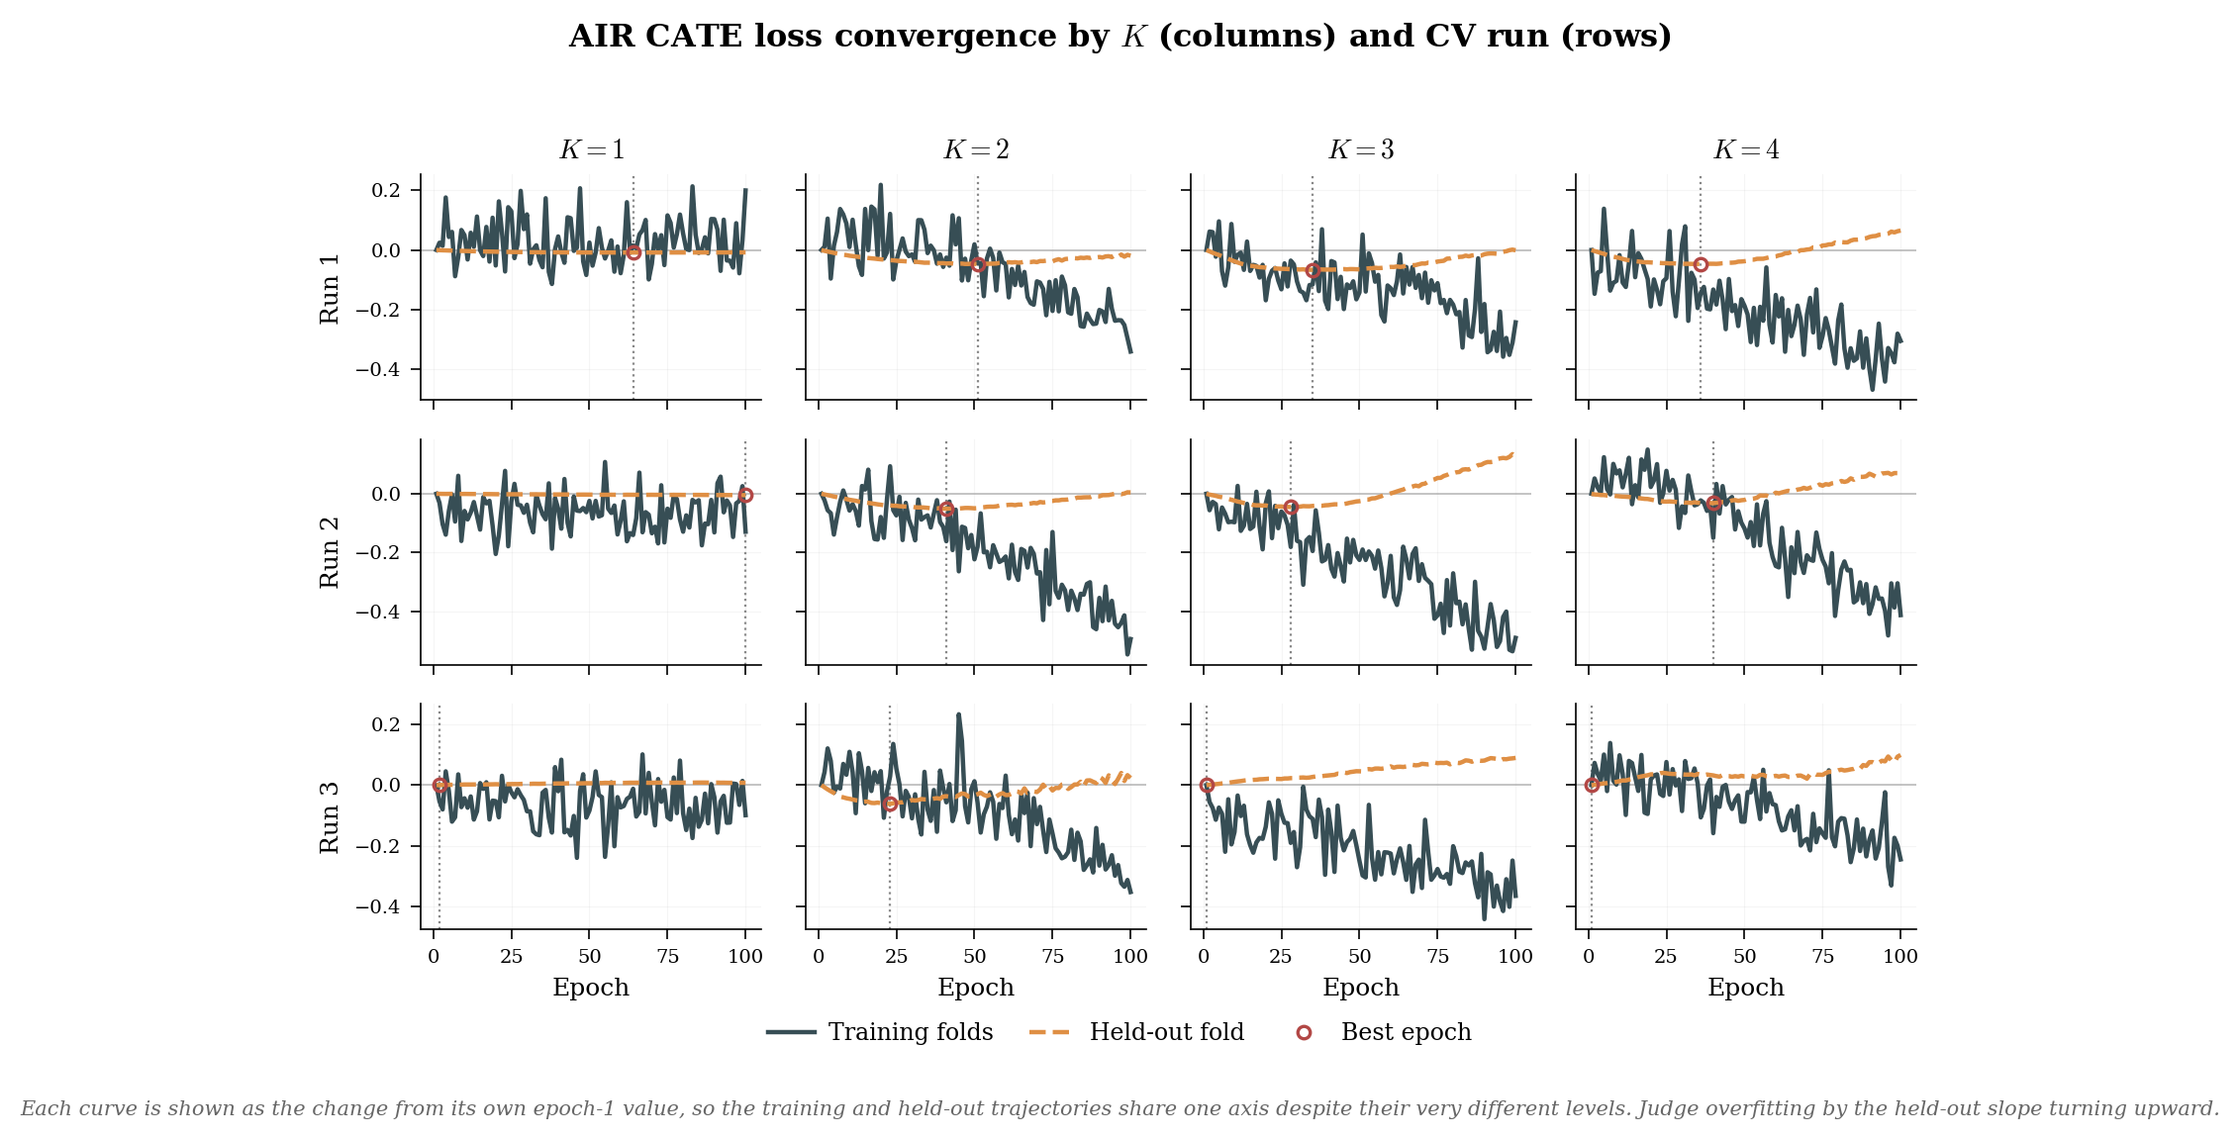
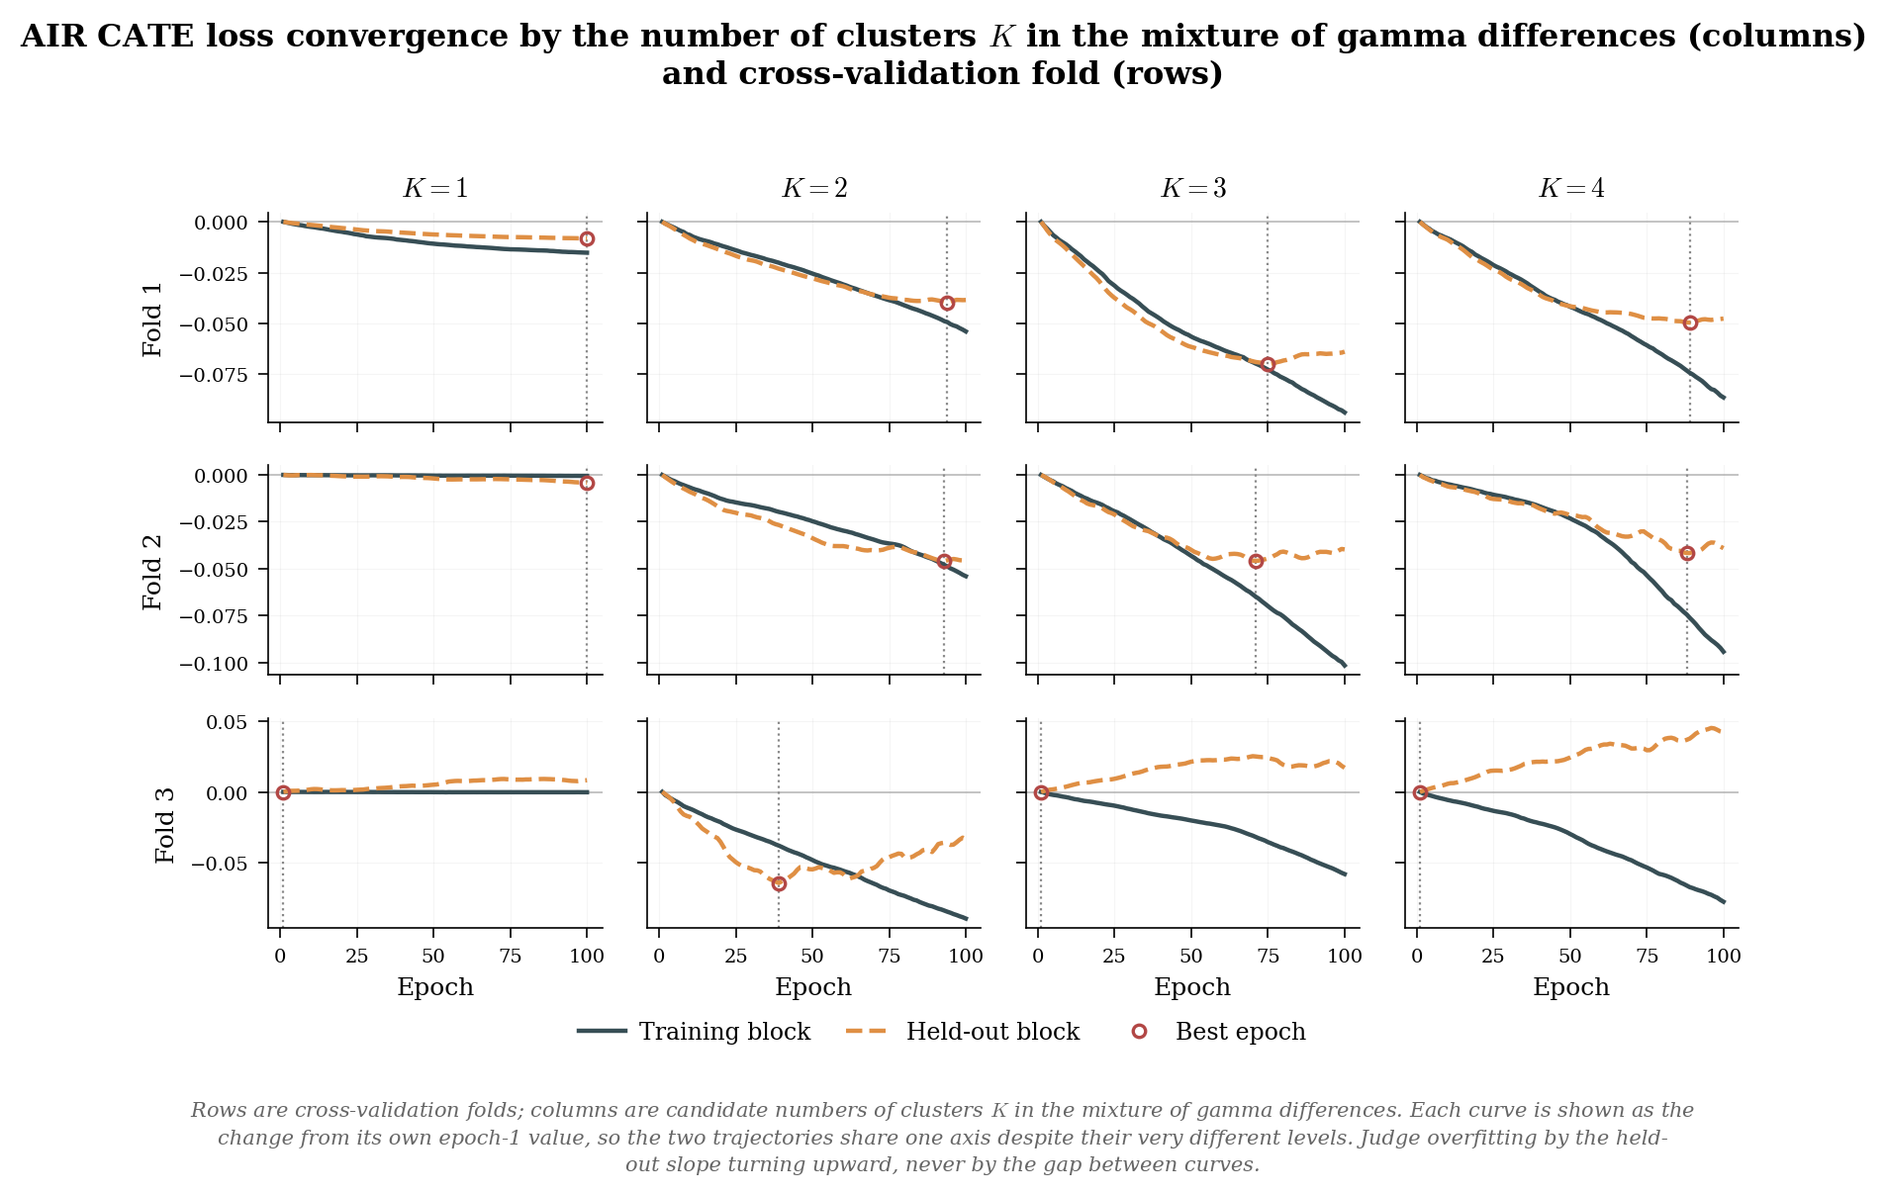
Clarify CV figure terminology and set the refit epoch budget from the screen
K is the number of clusters in the mixture of gamma differences, but a grid whose
rows were labelled "Run" invited reading it as a fold count. Rename the rows to
"Fold", state the meaning of K in both figure titles, and relabel the curves
"Training block" / "Held-out block" so that "fold" names the row and nothing else.

Label the left K-selection panel "held-out nuisance error dominates" rather than
"fold offsets dominate", which described the symptom without its cause. Verified
rather than assumed: recomputing the same three held-out blocks under one common
set of nuisances fitted on all n rows moves the loss level from about 9.6 to 3.4
and cuts the fold-to-fold range from 1.67 to 0.58, so the level is mostly held-out
nuisance estimation error and that error is also the majority driver of the
between-fold offsets. Both numbers are recorded in the docstrings.

Wrap the grid caption to the figure width. Callers save with bbox_inches="tight",
which grows the canvas to fit any overhanging artist, so a longer one-line caption
padded the figure out to its own length and squashed the panels.

Take the refit epoch budget in the quickstart from the screen's own per-fold best
epochs instead of a hard-coded 150. AIREstimator early-stops on the training loss,
which now decreases monotonically, so patience never fires and the refit was
training well past the held-out minimum the grid shows: integrated MSE 0.1785 at
[…]

diff --git a/src/air_cate/plotting.py b/src/air_cate/plotting.py
@@ -4,9 +4,17 @@ matplotlib is imported lazily inside each function: it ships only in the
 optional [plots] extra, so importing this module must not require it.
 
 Series identity is carried by BOTH color and linestyle (solid = training,
-dashed = validation) so the figures stay readable in grayscale print and for
+dashed = held out) so the figures stay readable in grayscale print and for
 colorblind readers, and every multi-series axes carries a legend.
+
+Terminology, kept consistent across every figure here: a *fold* is one outer
+cross-validation split (a row of the convergence grid); a *block* is a row-set a
+curve is computed on (training block = the other folds pooled, held-out block =
+that row's own fold); and *K* is the number of clusters in the mixture of gamma
+differences, never a fold count.
 """
+
+import textwrap
 
 # JAMA palette, shared with examples/plot_simulation.py and plot_cate_curves.py.
 _JAMA = {
@@ -65,18 +73,23 @@ def plot_cv_curve(
     ax=None,
     show_folds: bool = False,
     one_se_rule: bool = False,
-    title: str = "Cross-validated AIR CATE loss by number of clusters",
+    title: str = (
+        "Cross-validated AIR CATE loss by the number of clusters $K$ "
+        "in the mixture of gamma differences"
+    ),
     figsize: tuple[float, float] = (6.5, 4.2),
 ):
     """Plot the cross-validated AIR CATE loss against K, on the absolute scale.
 
     This panel shows the *level* of the loss and how much it varies between folds.
-    It is usually NOT the panel to pick K from: the fold-to-fold spread is
+    It is usually NOT the panel to select K from: the fold-to-fold spread is
     typically an order of magnitude larger than the differences between K values,
-    because every held-out block has its own nuisance noise level. That common
-    offset inflates the plotted marginal SEs but cancels in any comparison of two
-    K values. Use `plot_cv_paired` (or `plot_k_selection`, which shows both) to
-    decide K.
+    because each held-out block's nuisances are estimated within that block and so
+    carry their own estimation error. That error dominates the level -- on
+    WeibullMixtureDGP at n=1200 with three folds it accounts for roughly two thirds
+    of it -- and is common to every K within a fold, so it inflates the plotted
+    marginal SEs but cancels in any comparison of two K values. Use `plot_cv_paired`
+    (or `plot_k_selection`, which shows both) to select K.
 
     `one_se_rule` defaults to False here for the same reason. The textbook
     one-standard-error rule uses the across-fold SE, which is the right error term
@@ -294,9 +307,21 @@ def plot_k_selection(
     """Two-panel K-selection figure: absolute scale (left) and paired scale (right).
 
     The left panel is the honest picture of the loss level and its fold-to-fold
-    spread; the right panel is the one to decide K from. Two panels rather than two
+    spread; the right panel is the one to select K from. Two panels rather than two
     y-axes on one plot: the quantities differ by an order of magnitude, and a
     twin-axis chart would make their relative size meaningless.
+
+    Why the left panel is labelled "held-out nuisance error dominates". Each outer
+    fold re-cross-fits its nuisances inside its own held-out block, so each fold's
+    validation pseudo-outcomes carry that block's nuisance estimation error. On
+    WeibullMixtureDGP at n=1200 with three outer folds, recomputing the same three
+    held-out blocks under one common set of nuisances fitted on all n rows moved the
+    loss level from about 9.6 to about 3.4 and cut the fold-to-fold range from 1.67
+    to 0.58. So the level is mostly held-out nuisance error rather than signal, and
+    that error is also the majority driver of the offsets between folds; the
+    remainder is ordinary subject sampling. Neither figure is harmed by this,
+    because the offset is common to every K within a fold -- which is exactly what
+    the paired panel differences away.
 
     Args:
         cv_results: The `cv_results_` dict from AIREstimatorCV.
@@ -314,15 +339,16 @@ def plot_k_selection(
 
     plot_cv_curve(
         cv_results, ax=axes[0], show_folds=True, one_se_rule=False,
-        title="Absolute scale (fold offsets dominate)",
+        title="Absolute scale -- held-out nuisance error dominates",
     )
     plot_cv_paired(
         cv_results, ref_K=ref_K, ax=axes[1], show_folds=True, one_se_rule=True,
-        title="Paired scale -- decide $K$ here",
+        title="Paired scale -- select $K$ here",
     )
 
     fig.suptitle(
-        "Cross-validated AIR CATE loss by number of clusters $K$",
+        "Cross-validated AIR CATE loss by the number of clusters $K$ "
+        "in the mixture of gamma differences",
         fontsize=12.5, fontweight="bold", y=1.02,
     )
     fig.tight_layout()
@@ -336,29 +362,34 @@ def plot_convergence_grid(
     sharey: str = "row",
     mark_best: bool = True,
     normalize: str = "first",
-    title: str = "AIR CATE loss convergence by $K$ (columns) and CV run (rows)",
+    title: str = (
+        "AIR CATE loss convergence by the number of clusters $K$ in the mixture of "
+        "gamma differences (columns)\nand cross-validation fold (rows)"
+    ),
     panel_size: tuple[float, float] = (2.1, 1.75),
 ):
-    """Grid of per-run convergence curves: columns = K, rows = CV run.
+    """Grid of per-fold convergence curves: columns = K, rows = cross-validation fold.
 
-    Each panel shows the AIR CATE loss against epoch for one (K, fold) training
-    run: the training block (n_cv_folds - 1 folds) and the held-out validation
-    fold.
+    Each panel shows the AIR CATE loss against epoch for one (K, fold) fit. Within a
+    row, the *training block* is the other n_cv_folds - 1 folds pooled, and the
+    *held-out block* is that row's own fold. Both curves are labelled "block" rather
+    than "fold" so that "fold" refers unambiguously to the row -- K counts mixture
+    clusters, not folds.
 
-    Why `normalize="first"` is the default. The validation nuisances are cross-fit
-    *within* the held-out block, so they come from roughly 1/n_cv_folds as many
-    rows as the training-block nuisances. Their noisier pseudo-outcomes carry a
-    much larger irreducible residual, so the validation curve sits far above the
-    training curve -- in practice a level difference several times the training
-    loss itself, not a modest offset. On a shared absolute axis that gap swamps the
-    epoch-to-epoch movement both curves are drawn to show, and each panel collapses
-    into two flat lines. Plotting each curve minus its own epoch-1 value puts both
-    trajectories on one axis at a readable scale, which is what a convergence plot
-    is for. Pass `normalize="none"` to see the absolute levels instead.
+    Why `normalize="first"` is the default. The held-out block's nuisances are
+    cross-fit *within* that block, so they come from roughly 1/n_cv_folds as many
+    rows as the training block's. Their noisier pseudo-outcomes carry a much larger
+    irreducible residual, so the held-out curve sits far above the training curve --
+    in practice a level difference several times the training loss itself, not a
+    modest offset. On a shared absolute axis that gap swamps the epoch-to-epoch
+    movement both curves are drawn to show, and each panel collapses into two flat
+    lines. Plotting each curve minus its own epoch-1 value puts both trajectories on
+    one axis at a readable scale, which is what a convergence plot is for. Pass
+    `normalize="none"` to see the absolute levels instead.
 
     The level gap is NOT a measure of overfitting -- it is a property of the
     nuisance sample sizes and is common to every K within a row, so it does not
-    distort the comparison across K. What diagnoses overfitting is the validation
+    distort the comparison across K. What diagnoses overfitting is the held-out
     curve *turning upward* as epochs increase. Judge by slope, never by the gap.
 
     Args:
@@ -367,7 +398,7 @@ def plot_convergence_grid(
         n_cv_folds: Number of rows. Inferred from the keys if None.
         sharey: Passed to plt.subplots. "row" keeps each fold on a common scale
             (comparable across K within a fold) while letting folds differ.
-        mark_best: Mark the best-validation epoch in each panel.
+        mark_best: Mark the best held-out epoch in each panel.
         normalize: "first" (default) plots each curve minus its own epoch-1 value;
             "none" plots the raw loss.
         title: Figure suptitle.
@@ -418,7 +449,7 @@ def plot_convergence_grid(
             ax.plot(
                 epochs, train,
                 color=_JAMA["teal"], ls="-", lw=1.6,
-                label="Training folds", zorder=3,
+                label="Training block", zorder=3,
             )
 
             val = history.get("val_loss")
@@ -429,7 +460,7 @@ def plot_convergence_grid(
                 ax.plot(
                     epochs, val,
                     color=_JAMA["orange"], ls="--", lw=1.6,
-                    label="Held-out fold", zorder=4,
+                    label="Held-out block", zorder=4,
                 )
 
                 if mark_best:
@@ -451,7 +482,7 @@ def plot_convergence_grid(
             if row == 0:
                 ax.set_title(f"$K = {K}$", fontsize=10, fontweight="bold", pad=6)
             if col == 0:
-                ax.set_ylabel(f"Run {row + 1}", fontsize=9)
+                ax.set_ylabel(f"Fold {row + 1}", fontsize=9)
             if row == n_cv_folds - 1:
                 ax.set_xlabel("Epoch", fontsize=9)
 
@@ -477,20 +508,29 @@ def plot_convergence_grid(
 
     if normalize == "first":
         caption = (
-            "Each curve is shown as the change from its own epoch-1 value, so the "
-            "training and held-out trajectories share one axis despite their very "
-            "different levels. Judge overfitting by the held-out slope turning "
-            "upward."
+            "Rows are cross-validation folds; columns are candidate numbers of "
+            "clusters $K$ in the mixture of gamma differences. Each curve is shown "
+            "as the change from its own epoch-1 value, so the two trajectories "
+            "share one axis despite their very different levels. Judge overfitting "
+            "by the held-out slope turning upward, never by the gap between curves."
         )
     else:
         caption = (
-            "The held-out curve sits above the training curve because its nuisances "
-            "use fewer rows; judge overfitting by its slope, not the gap."
+            "Rows are cross-validation folds; columns are candidate numbers of "
+            "clusters $K$ in the mixture of gamma differences. The held-out curve "
+            "sits above the training curve because its nuisances are estimated from "
+            "fewer rows; judge overfitting by its slope, not the gap."
         )
 
+    # Wrap the caption to the figure's own width. Callers save with
+    # bbox_inches="tight", which grows the canvas to fit any overhanging artist -- so
+    # an unwrapped caption pads the figure out to its own length and squashes the
+    # panels. ~17 characters per inch at 7.5pt italic.
     fig.text(
-        0.5, -0.045, caption,
+        0.5, -0.045,
+        textwrap.fill(caption, width=int(fig.get_figwidth() * 17)),
         ha="center", va="top", fontsize=7.5, color="#666666", style="italic",
+        linespacing=1.5,
     )
 
     fig.tight_layout(rect=[0, 0.02, 1, 0.98])

diff --git a/examples/quickstart_cv.py b/examples/quickstart_cv.py
@@ -7,7 +7,7 @@ R-loss, so you can pick one from a plot instead of guessing.
 It is a *diagnostic only*: no predict methods, no final refit. The workflow is
 
     1. cv = AIREstimatorCV(K_grid=...).fit(...)   # score every K
-    2. read K off cv.summary() and the two figures
+    2. read K -- and an epoch budget -- off cv.summary() and the two figures
     3. AIREstimator(K=<your choice>).fit(...)     # refit on the full data
 
 Data here is WeibullMixtureDGP, a 3-component Weibull mixture in each arm, so the
@@ -84,6 +84,24 @@ def read_off_K(cv):
     return selected
 
 
+def refit_epoch_budget(cv, K):
+    """How many epochs to give the refit, read off the screen.
+
+    AIREstimator early-stops on the *training* loss, which decreases essentially
+    monotonically here, so patience never fires and the refit runs its full budget.
+    The screen already measured where the held-out loss bottoms out, so use that
+    instead of guessing: past it, the convergence grid's held-out curves turn upward.
+
+    Median, not mean, across folds: a fold whose held-out loss never improves on the
+    untrained model is scored at epoch 0, and one such fold would drag a mean far
+    below where the other folds actually turned.
+    """
+    K_list = list(cv.cv_results_["K_grid"])
+    best_epochs = np.asarray(cv.cv_results_["fold_best_epoch"])[K_list.index(K)]
+    # +1 converts a 0-indexed epoch to a count of epochs to run.
+    return max(20, int(np.median(best_epochs)) + 1)
+
+
 def make_figures(cv):
     """Save the two diagnostic figures, if matplotlib is installed."""
     try:
@@ -109,7 +127,7 @@ def make_figures(cv):
     fig, _ = cv.plot_k_selection()
     save(fig, "quickstart_cv_k")
 
-    # Columns = K, rows = CV run. Each panel: training vs held-out loss by epoch.
+    # Columns = K, rows = CV fold. Each panel: training vs held-out loss by epoch.
     # A held-out curve turning upward means that K overfits.
     fig, _ = cv.plot_convergence_grid()
     save(fig, "quickstart_cv_convergence")
@@ -125,16 +143,18 @@ def main():
     K = read_off_K(cv)
     make_figures(cv)
 
-    # Step 3: refit on the full data at the chosen K. The screen hands over nothing
-    # but the integer -- the nuisance stage is re-run here on all n rows.
-    print(f"\nRefitting AIREstimator(K={K}) on the full sample...")
+    # Step 3: refit on the full data at the chosen K. The screen hands over two
+    # numbers and nothing else -- K and an epoch budget. The nuisance stage is
+    # deliberately re-run here on all n rows.
+    epochs = refit_epoch_budget(cv, K)
+    print(f"\nRefitting AIREstimator(K={K}) on the full sample for {epochs} epochs...")
     est = AIREstimator(
         K=K,
         M=50,
         n_folds=3,
         encoder_hidden_sizes=(32, 16),
         nuisance_training_config={"epochs": 40, "verbose": 0},
-        cate_epochs=150,
+        cate_epochs=epochs,
         cate_lr=1e-3,
     )
     est.fit(X, W, Z, Delta, t_end, verbose=1)

diff --git a/tests/test_plotting.py b/tests/test_plotting.py
@@ -221,8 +221,12 @@ def test_plot_k_selection_returns_two_distinct_panels():
 # plot_convergence_grid
 # ---------------------------------------------------------------------------
 
-def test_convergence_grid_layout_is_K_by_run():
-    """Columns are K, rows are CV run -- the requested orientation."""
+def test_convergence_grid_layout_is_K_by_fold():
+    """Columns are K, rows are CV fold -- the requested orientation.
+
+    Rows are labelled "Fold", not "Run": K counts mixture clusters, and a reader who
+    sees "K" next to "Run" tends to read it as the number of folds instead.
+    """
     histories = _fake_histories()
     fig, axes = plot_convergence_grid(
         histories, K_grid=K_GRID, n_cv_folds=N_FOLDS
@@ -232,7 +236,19 @@ def test_convergence_grid_layout_is_K_by_run():
         top_titles = [axes[0][c].get_title() for c in range(len(K_GRID))]
         assert top_titles == [f"$K = {k}$" for k in K_GRID]
         left_labels = [axes[r][0].get_ylabel() for r in range(N_FOLDS)]
-        assert left_labels == [f"Run {r + 1}" for r in range(N_FOLDS)]
+        assert left_labels == [f"Fold {r + 1}" for r in range(N_FOLDS)]
+    finally:
+        plt.close(fig)
+
+
+def test_convergence_grid_legend_says_block_not_fold():
+    """The curve labels must not reuse "fold", which now names the row."""
+    histories = _fake_histories()
+    fig, axes = plot_convergence_grid(histories, K_grid=K_GRID, n_cv_folds=N_FOLDS)
+    try:
+        _, labels = axes[0][0].get_legend_handles_labels()
+        assert "Training block" in labels
+        assert "Held-out block" in labels
     finally:
         plt.close(fig)
 

diff --git a/src/air_cate/estimator_cv.py b/src/air_cate/estimator_cv.py
@@ -409,7 +409,7 @@ class AIREstimatorCV:
         return plot_k_selection(self.cv_results_, **kwargs)
 
     def plot_convergence_grid(self, **kwargs):
-        """Plot the grid of per-run convergence curves. See air_cate.plotting."""
+        """Plot the per-fold convergence grid (rows) by K (columns). See air_cate.plotting."""
         from air_cate.plotting import plot_convergence_grid
 
         kwargs.setdefault("K_grid", list(self.K_grid))
@@ -454,8 +454,8 @@ class AIREstimatorCV:
         n_at_zero = int((np.asarray(cv["fold_best_epoch"]) == 0).sum())
         if n_at_zero:
             lines.append(
-                f"\nNote: {n_at_zero} run(s) scored at epoch 0 -- validation loss "
-                "never improved on the untrained model, so those scores reflect "
-                "initialization rather than a fitted model."
+                f"\nNote: {n_at_zero} (K, fold) fit(s) scored at epoch 0 -- the "
+                "held-out loss never improved on the untrained model, so those "
+                "scores reflect initialization rather than a fitted model."
             )
         return "\n".join(lines)

diff --git a/examples/plot_k_selection.py b/examples/plot_k_selection.py
@@ -6,7 +6,7 @@ arms -- and produces two figures:
   k_selection_cv           CV AIR CATE loss against K, on two scales: absolute
                            (shows the level and the fold offsets) and paired
                            against the reference K (decide K from this one).
-  k_selection_convergence  Grid of convergence curves: columns = K, rows = CV run.
+  k_selection_convergence  Grid of convergence curves: columns = K, rows = CV fold.
                            Each panel plots training vs held-out AIR loss by epoch,
                            each as the change from its own epoch-1 value.
 
